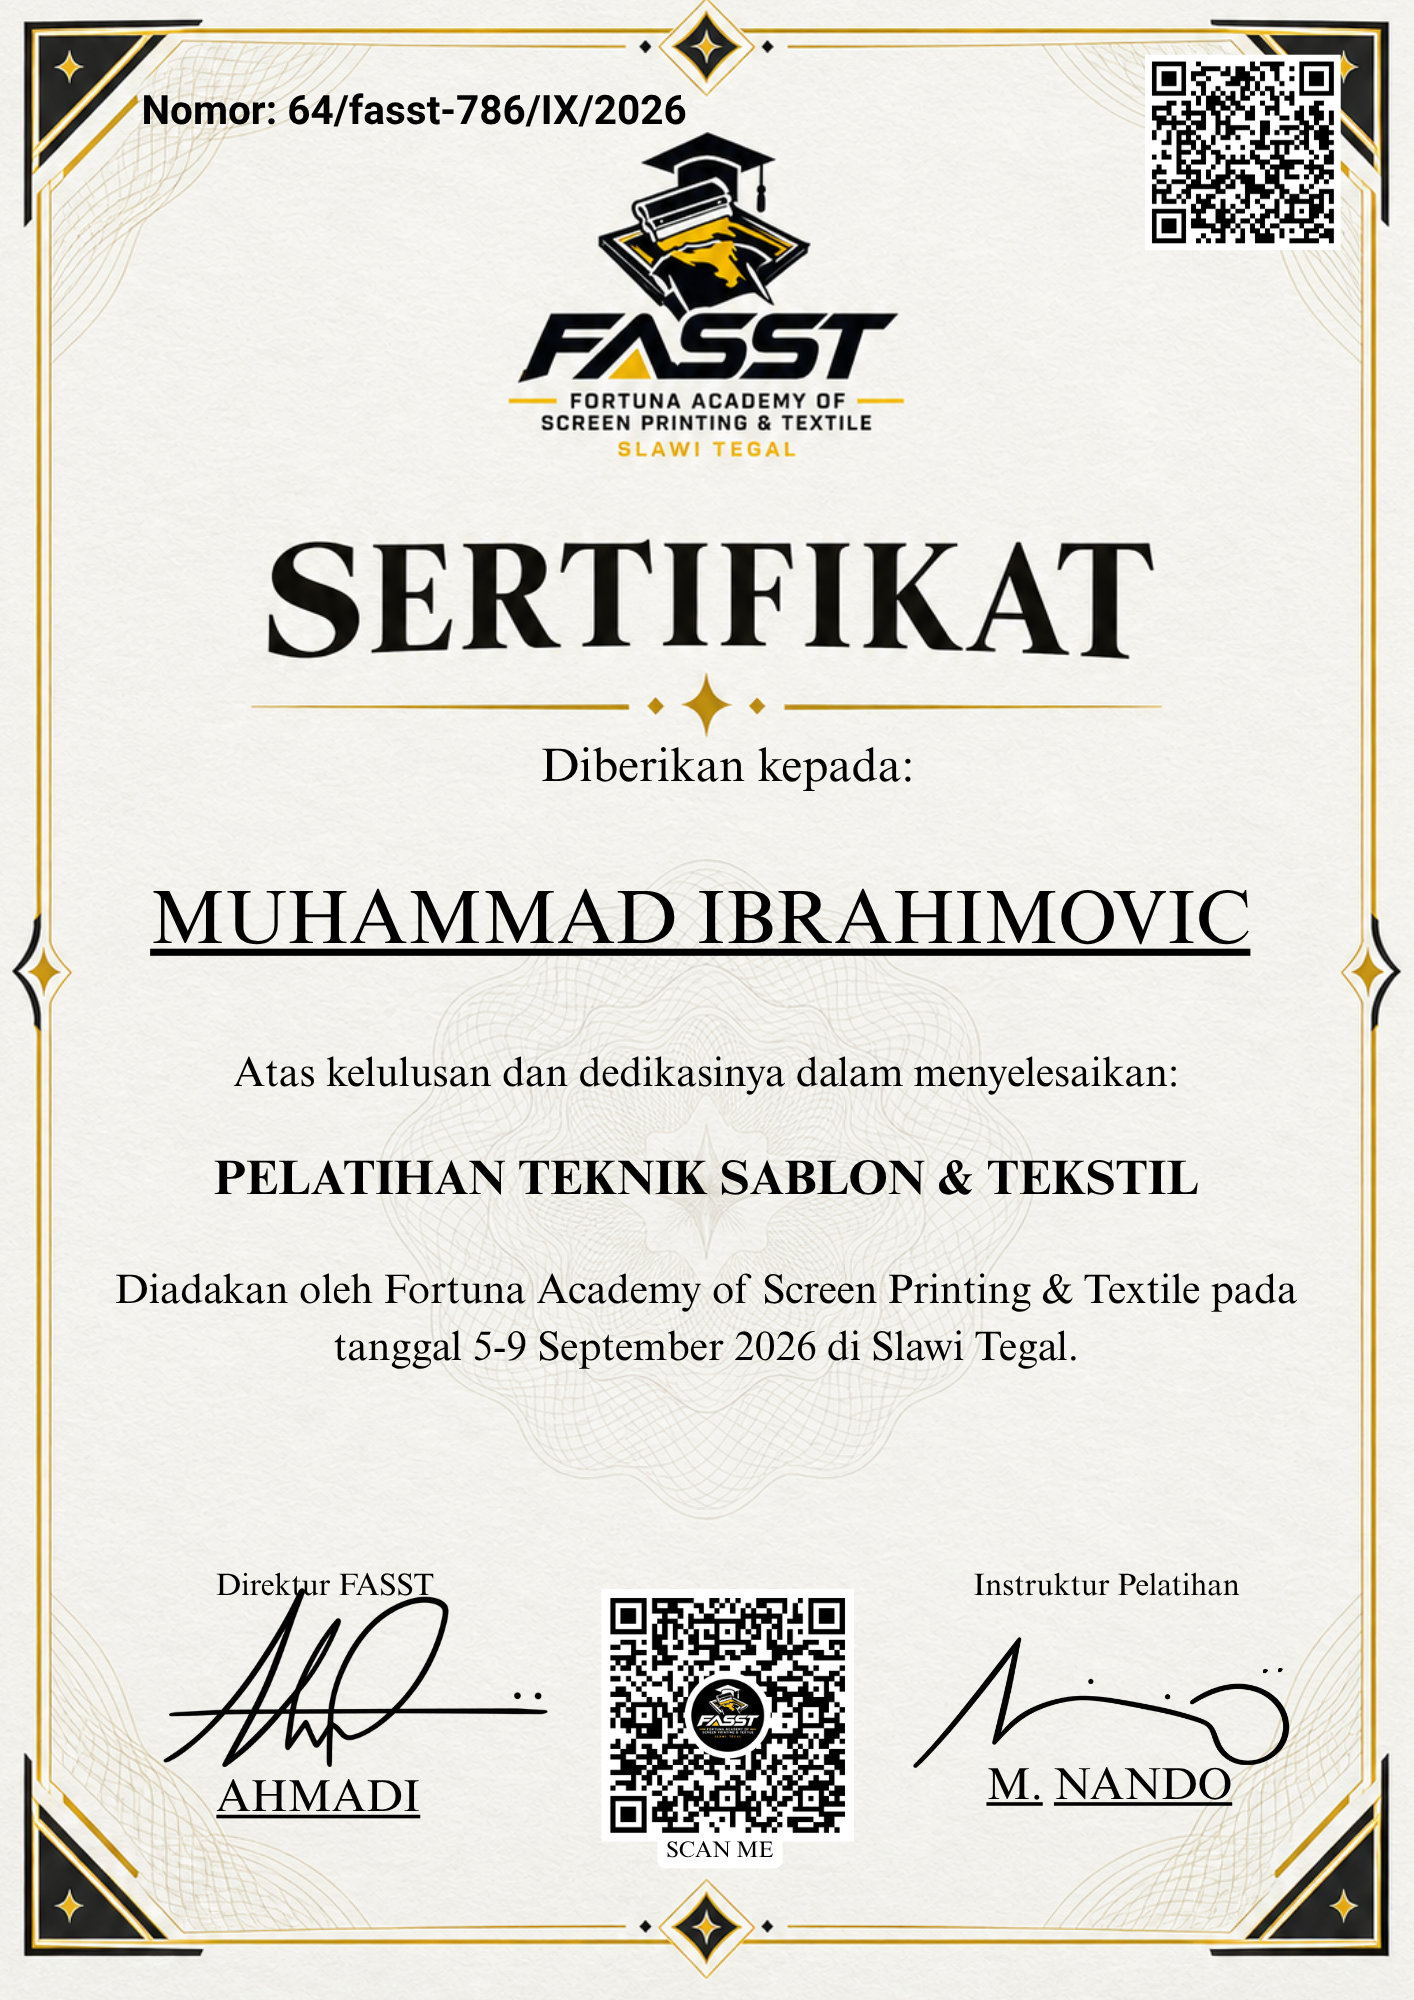
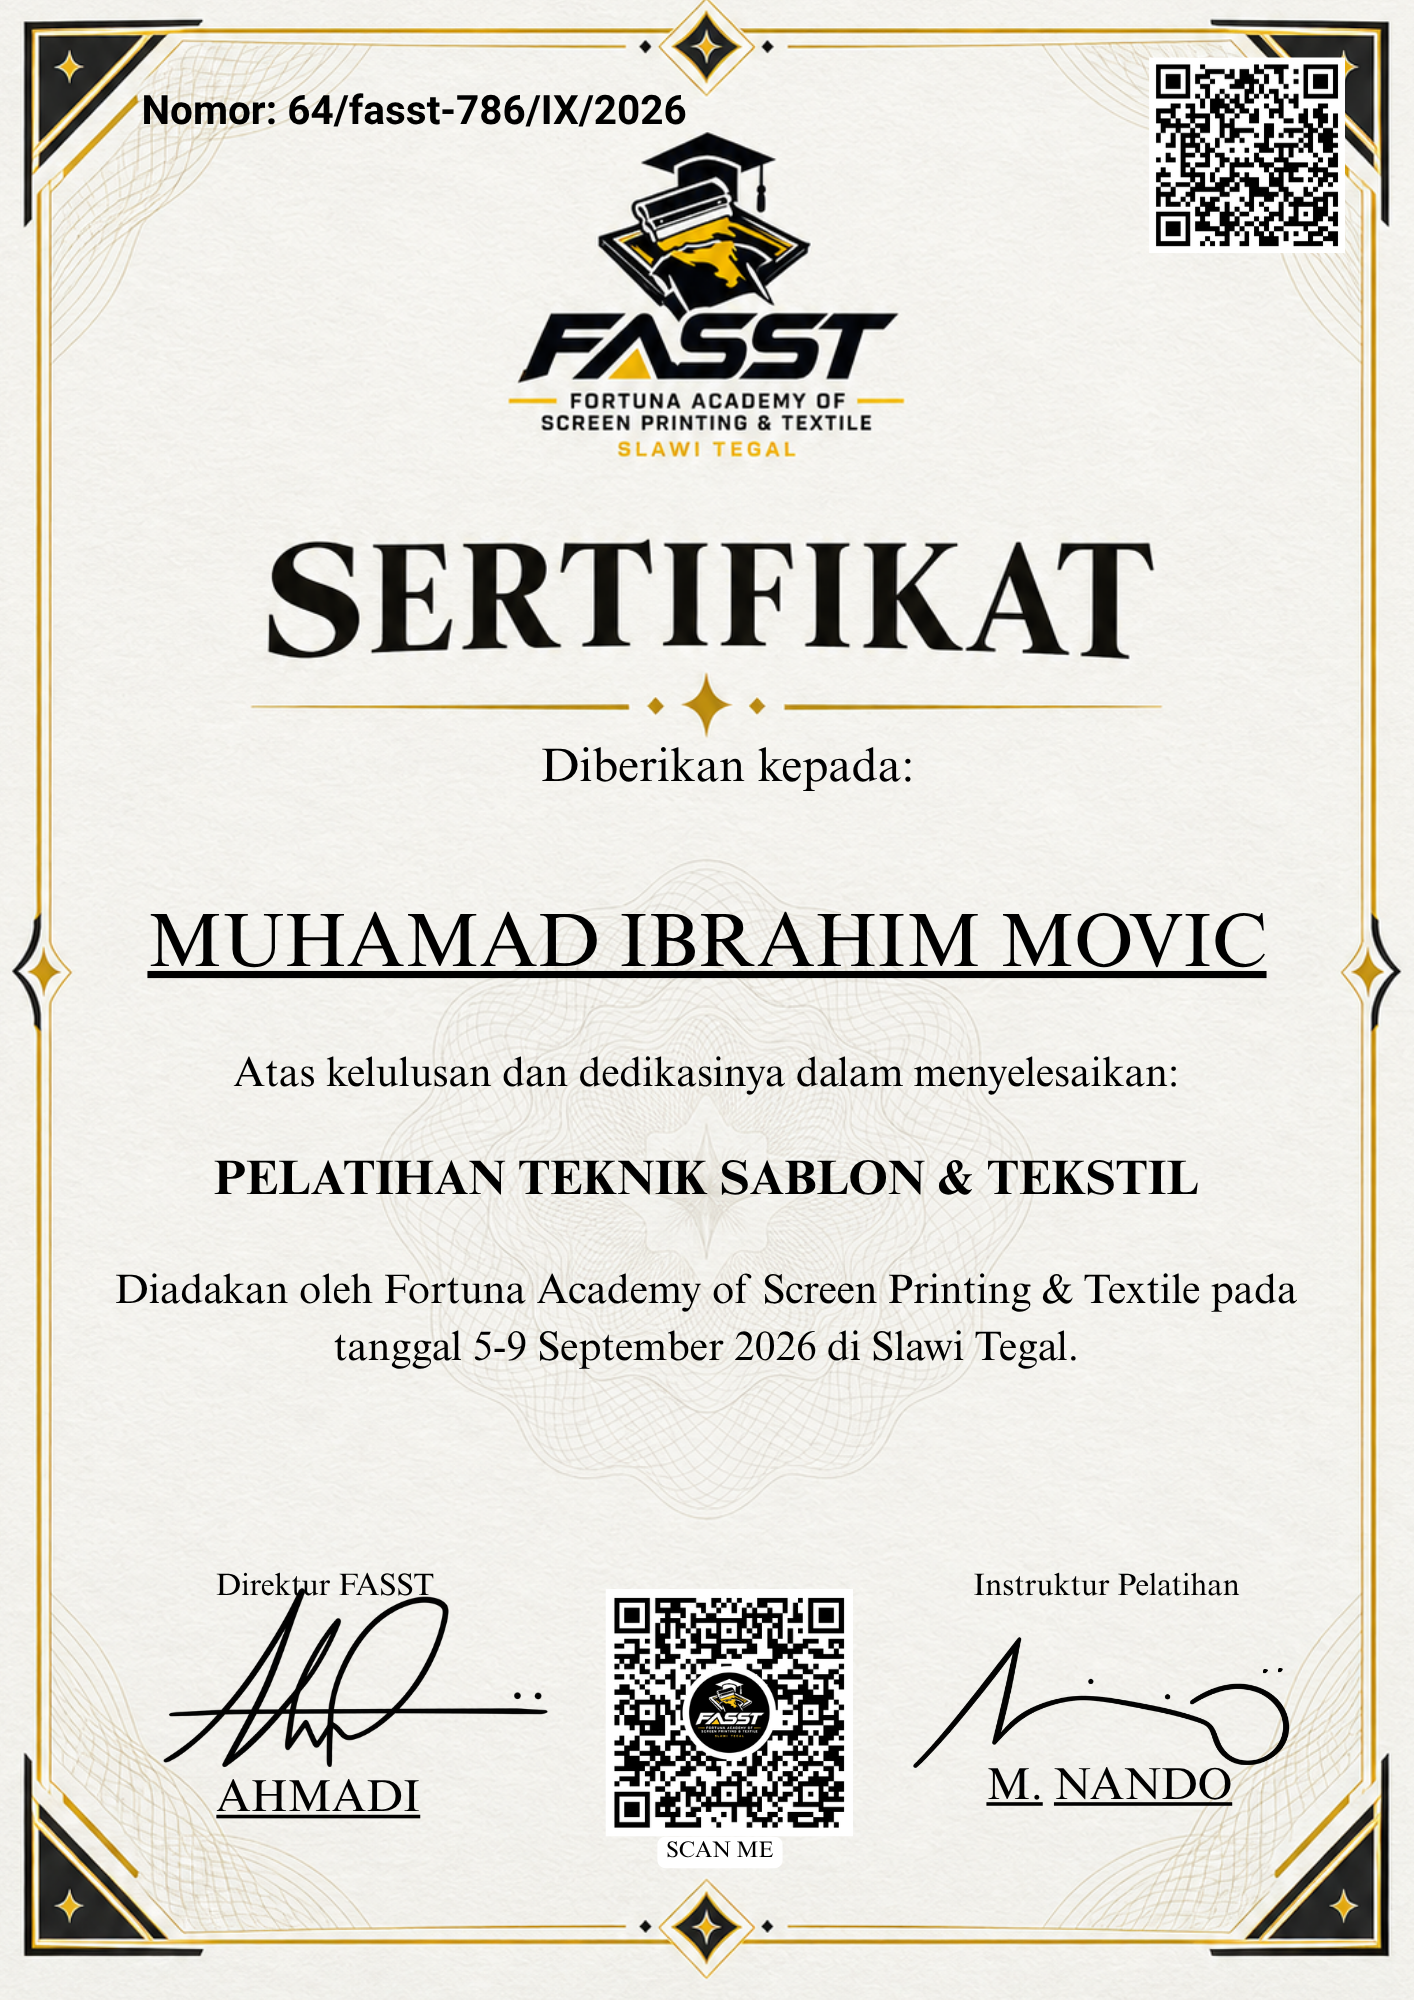
Update certificate Ibrahim

Changed region(s): [[0.0934, 0.434, 0.9024, 0.496], [0.4356, 0.775, 0.6223, 0.93], [0.8091, 0.031, 0.9646, 0.124]]

diff --git a/sertifikat/ibrahim.html b/sertifikat/ibrahim.html
@@ -273,7 +273,7 @@
 
   <section class="cert-section">
     <div class="certificate reveal">
-      <img src="../Asset/ibrahim.png" alt="Sertifikat Muhammad Ibrahimmovic - Pelatihan Teknik Sablon dan Tekstil FASST">
+      <img src="../Asset/ibrahim.png" alt="Sertifikat Muhamad Ibrahim Movic - Pelatihan Teknik Sablon dan Tekstil FASST">
       <p class="cert-caption">Sertifikat Nomor: 64/fasst-786/IX/2026</p>
     </div>
   </section>
@@ -286,7 +286,7 @@
       <div class="details-table">
         <div class="details-row">
           <span class="label">NAMA</span>
-          <span class="value">Muhammad Ibrahim Movic</span>
+          <span class="value">Muhamad Ibrahim Movic</span>
         </div>
         <div class="details-row">
           <span class="label">ALAMAT</span>
